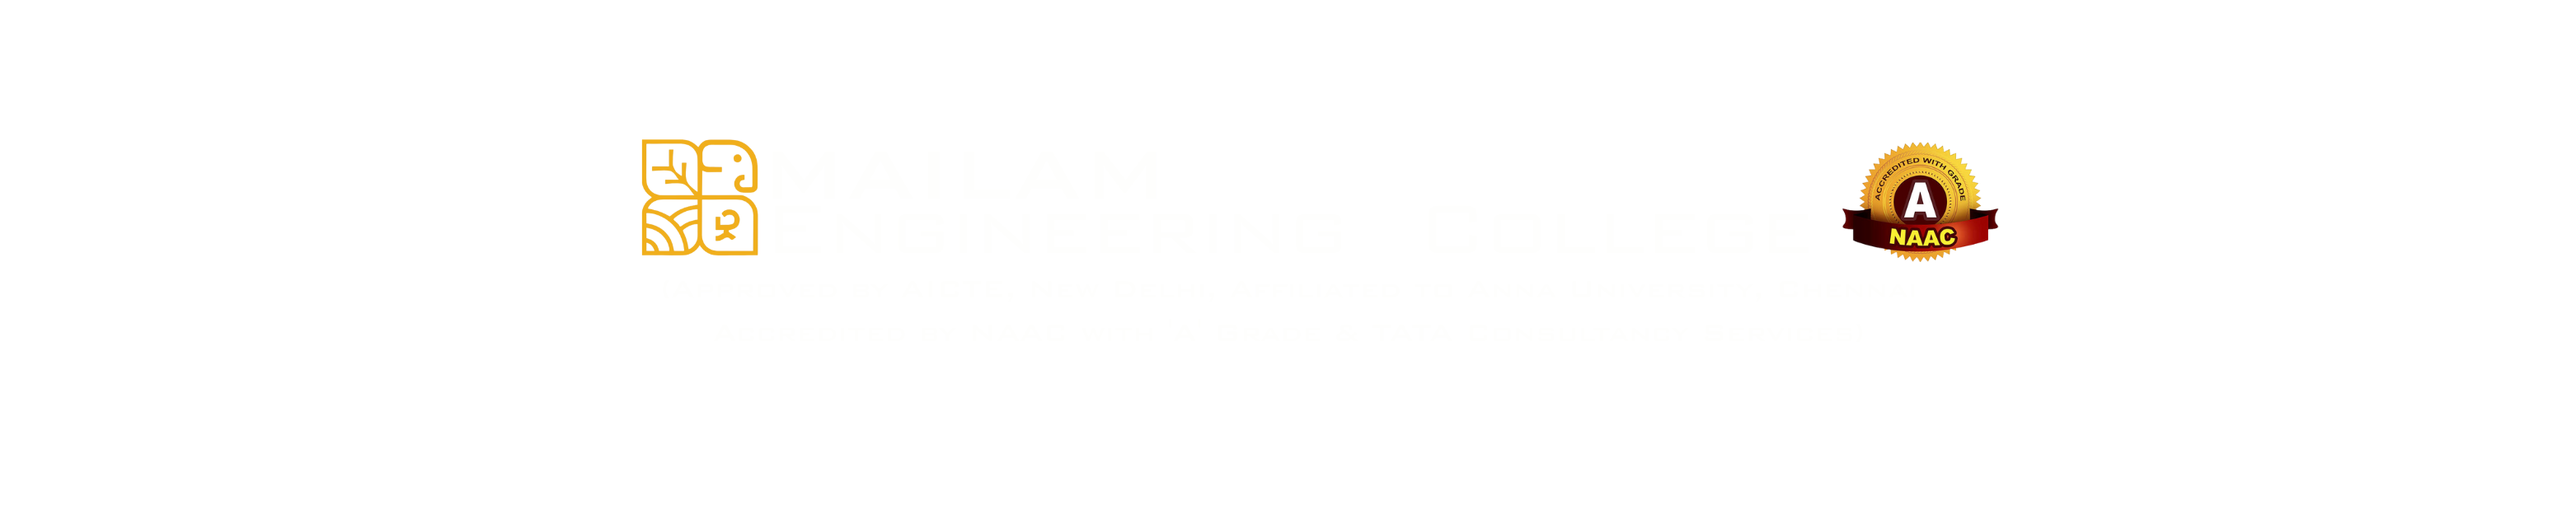
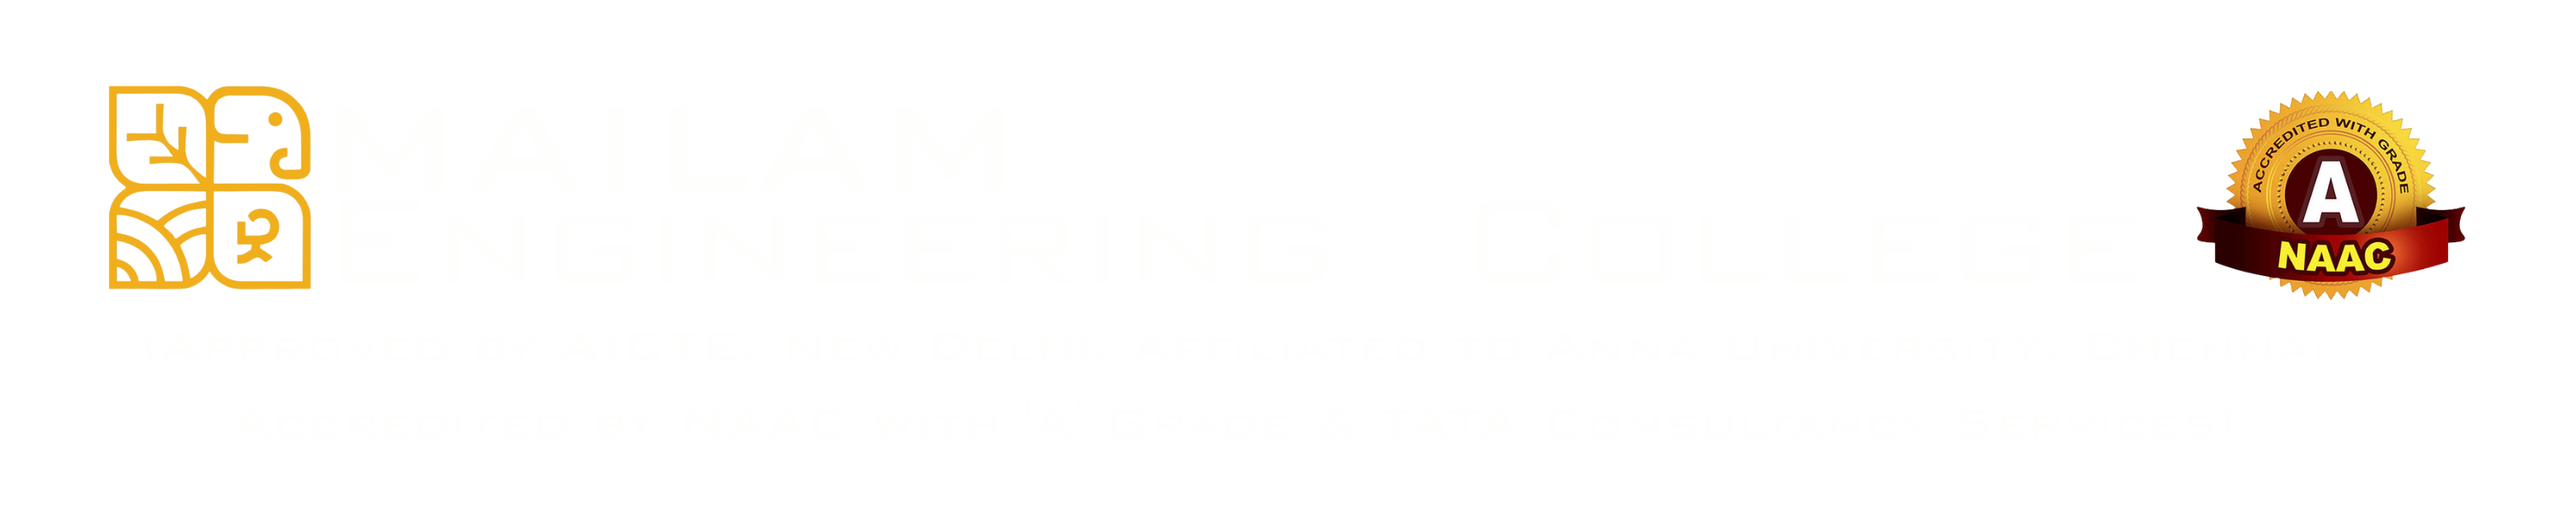
.
.

diff --git a/src/pages/Home.jsx b/src/pages/Home.jsx
@@ -31,8 +31,8 @@ const Home = () => {
           flexDirection: 'column',
           alignItems: 'center',
           marginBottom: '0px',
-          perspective: '1500px',
-          overflow: 'hidden'
+          perspective: '5000px',
+          overflow: 'visible'
         }}>
           {/* MEC Design with 3D effects and glow */}
           <motion.div
@@ -50,10 +50,11 @@ const Home = () => {
             }}
             style={{
               transformStyle: 'preserve-3d',
-              transform: 'translateZ(50px)',
+              transform: 'translateZ(200px)',
               position: 'relative',
               width: '100vw',
               maxWidth: '100vw',
+              overflow: 'visible',
               display: 'flex',
               justifyContent: 'center',
               alignItems: 'center',
@@ -68,7 +69,7 @@ const Home = () => {
               className="glow-effect"
               style={{
                 width: '100%',
-                maxWidth: 'min(100vw, 2000px)',
+                maxWidth: 'min(100vw, 16000px)',
                 height: 'auto',
                 transformStyle: 'preserve-3d'
               }}
@@ -80,7 +81,7 @@ const Home = () => {
         <div style={{
           width: '100%',
           textAlign: 'center',
-          marginTop: '-40px',
+          marginTop: '100px',
           display: 'flex',
           flexDirection: 'column',
           alignItems: 'center',
@@ -150,12 +151,16 @@ const Home = () => {
             animate={{ opacity: 1, scale: 1 }}
             transition={{ duration: 1.2, delay: 0.8 }}
             style={{
-              fontSize: 'clamp(2rem, 6vw, 3.5rem)',
+              fontSize: 'clamp(1.5rem, 5vw, 3rem)',
               fontWeight: 'bold',
-              letterSpacing: '0.1em',
+              letterSpacing: '0.05em',
               margin: '20px 0 60px 0',
               fontStyle: 'italic',
-              transform: 'perspective(800px) rotateX(10deg)'
+              transform: 'perspective(800px) rotateX(10deg)',
+              width: '100%',
+              textAlign: 'center',
+              display: 'flex',
+              justifyContent: 'center'
             }}
           >
             <div className="hackblitz-text-fill">
@@ -176,15 +181,15 @@ const Home = () => {
           }}>
             <Link to="/loading-redirect" style={{ textDecoration: 'none' }}>
               <div className="candy-btn btn-candy-12 btn-intra">
-                <span>INTRA COLLEGE REGISTRATION</span>
-                <span>INTRA COLLEGE REGISTRATION</span>
+                <span>OTHER COLLEGE REGISTRATION</span>
+                <span>OTHER COLLEGE REGISTRATION</span>
               </div>
             </Link>
 
             <Link to="/loading-redirect-mec" style={{ textDecoration: 'none' }}>
               <div className="candy-btn btn-candy-12 btn-mec">
-                <span>INTER COLLEGE REGISTRATION</span>
-                <span>INTER COLLEGE REGISTRATION</span>
+                <span>MEC COLLEGE REGISTRATION</span>
+                <span>MEC COLLEGE REGISTRATION</span>
               </div>
             </Link>
           </div>

diff --git a/src/pages/AnimatedTextFill.css b/src/pages/AnimatedTextFill.css
@@ -4,8 +4,10 @@
   font-family: inherit;
   font-weight: 700;
   display: inline-block;
-  font-size: 1.2em;
-  letter-spacing: 0.1em;
+  font-size: 1em;
+  letter-spacing: 0.05em;
+  white-space: nowrap;
+  width: 100%;
   padding: 10px;
   /* text-transform: uppercase; */
   transform-style: preserve-3d;
@@ -40,6 +42,8 @@
   position: absolute;
   top: 0;
   left: 0;
+  width: 100%;
+  white-space: nowrap;
   color: #85A947;
   text-shadow:
     0 1px 0 #6a8a39,
@@ -63,6 +67,8 @@
   position: absolute;
   top: 0;
   left: 0;
+  width: 100%;
+  white-space: nowrap;
   background: linear-gradient(
     to right,
     #3E7B27, #85A947, #ffffff, #85A947, #3E7B27
@@ -82,4 +88,53 @@
   0% { background-position: 0% 50%; }
   50% { background-position: 100% 50%; }
   100% { background-position: 0% 50%; }
+}
+
+/* Media queries for better responsiveness */
+@media screen and (max-width: 768px) {
+  .hackblitz-text-fill {
+    font-size: 0.9em;
+    letter-spacing: 0.03em;
+    padding: 8px;
+  }
+
+  .hackblitz-text-fill::after,
+  .hackblitz-text-fill::before {
+    letter-spacing: 0.03em;
+  }
+
+  .hackblitz-text-fill::after {
+    text-shadow:
+      0 1px 0 #6a8a39,
+      0 2px 0 #5f7d33,
+      0 3px 0 #54702d,
+      0 4px 0 #496327,
+      0 5px 0 #3e5621,
+      0 6px 0 #33491b,
+      0 7px 0 #283c15,
+      0 8px 10px rgba(0, 0, 0, 0.6);
+  }
+}
+
+@media screen and (max-width: 480px) {
+  .hackblitz-text-fill {
+    font-size: 0.8em;
+    letter-spacing: 0.02em;
+    padding: 5px;
+  }
+
+  .hackblitz-text-fill::after,
+  .hackblitz-text-fill::before {
+    letter-spacing: 0.02em;
+  }
+
+  .hackblitz-text-fill::after {
+    text-shadow:
+      0 1px 0 #6a8a39,
+      0 2px 0 #5f7d33,
+      0 3px 0 #54702d,
+      0 4px 0 #496327,
+      0 5px 0 #3e5621,
+      0 6px 10px rgba(0, 0, 0, 0.6);
+  }
 }

diff --git a/src/pages/ResponsiveText.css b/src/pages/ResponsiveText.css
@@ -38,7 +38,10 @@
   display: block;
   margin: 0 auto;
   transform-origin: center center;
-  transform: scale(1.2);
+  transform: scale(9.6);
+  position: relative;
+  left: 0;
+  right: 0;
 }
 
 /* Home page container styles */
